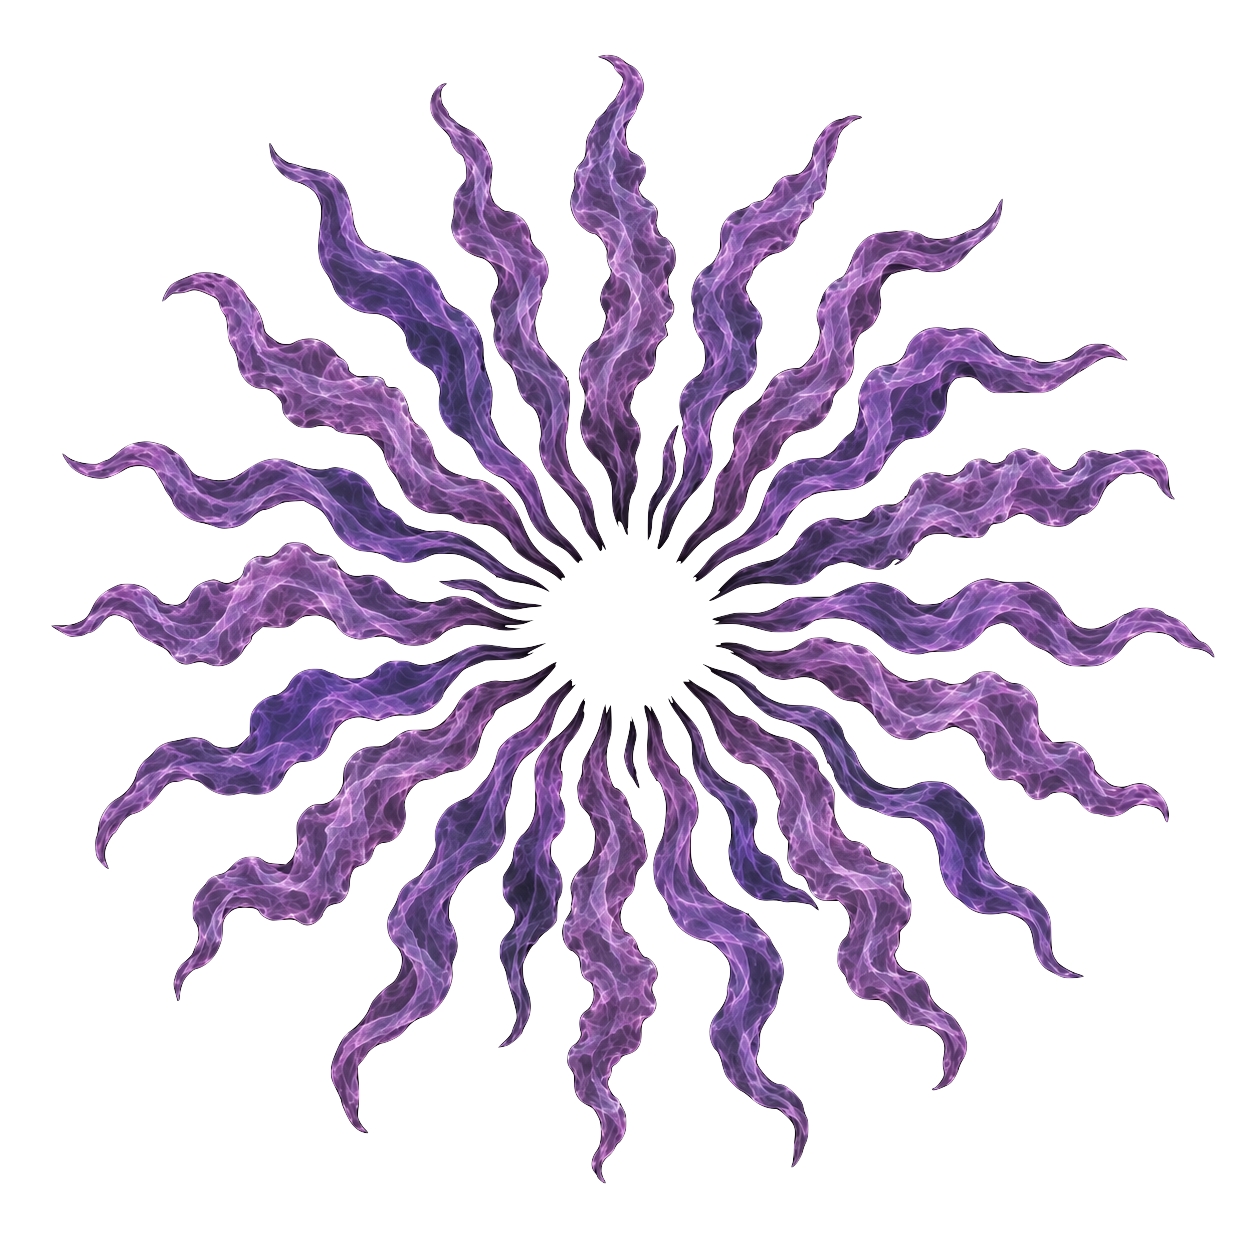
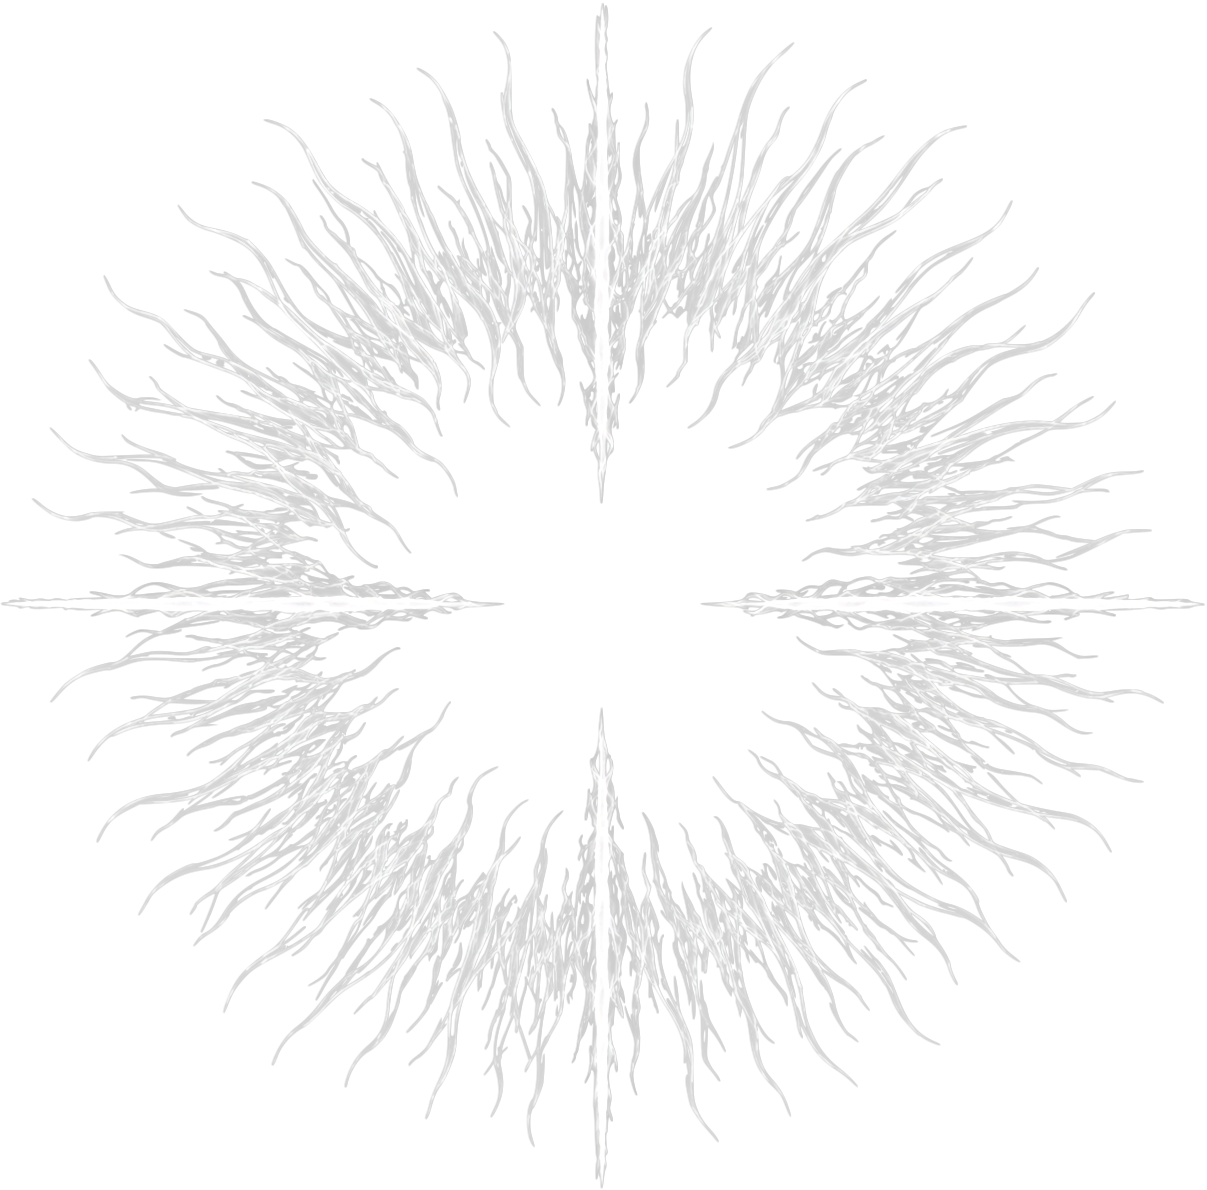
Finalized work with texture and parameters setting

diff --git a/shaders/jellyfishDeform.sksl.ts b/shaders/jellyfishDeform.sksl.ts
@@ -40,6 +40,22 @@
  * Wobble (bell + tentacles, always on):
  *   low-frequency angular distortion driven only by iTime — independent of the
  *   swim cycle. Edge-weighted so the rim flaps while the center stays stable.
+ *
+ * Tilt (directional lean, all along the unit vector tiltDir = (cos,sin) of
+ * tiltAngle). Three independent, sign-explicit channels so the bell and the
+ * tentacles always lean to corresponding sides:
+ *   tiltCenterShift: rim-anchored lean in display space (applied to c before the
+ *     pulse). Inner disc shifts rigidly toward tiltDir while the rim stays put;
+ *     constant across relax and contract so the center stays leaned at rest.
+ *   tiltBodyShift: uniform whole-sprite slide of the sampling center — used by
+ *     the tentacles to trail opposite the motion (pass a negative value).
+ *   tiltLen: radial length asymmetry. dot>0 on the tiltDir side enlarges rSrc
+ *     (samples farther out -> shorter arms); the opposite side lengthens.
+ *   tiltEgg: only applied to the bell. Shrinks the perpendicular-to-tilt
+ *     component on the back half (dot(c,tiltDir) < 0), which expands the
+ *     silhouette boundary there → blunt/flat arc. Front hemisphere is untouched
+ *     → stays a normal rounded dome. Uses tiltDir, so must be 0 for tentacles.
+ * All default to 0, so the sprite is untouched until motion drives them.
  */
 export const JELLYFISH_DEFORM_SKSL = `
 uniform float jellyX;
@@ -66,11 +82,35 @@ uniform float wobbleAmp;
 uniform float wobbleSpeed;
 uniform float wobbleLobes;
 uniform float opacity;
+uniform float tiltAngle;
+uniform float tiltCenterShift;
+uniform float tiltBodyShift;
+uniform float tiltLen;
+uniform float tiltEgg;
 uniform shader jellyTexture;
 
 half4 main(float2 fragCoord) {
   vec2 uv = (fragCoord - vec2(jellyX, jellyY)) / vec2(jellyW, jellyH);
+
+  // Tilt direction — computed once; used by egg warp below and shift effects further down.
+  vec2 tiltDir  = vec2(cos(tiltAngle), sin(tiltAngle));
+  vec2 tiltPerp = vec2(-tiltDir.y, tiltDir.x);
+
   vec2 c = uv - 0.5;
+
+  // Egg silhouette warp (bell only, tiltEgg = 0 for tentacles).
+  // In backward mapping, shrinking the perpendicular component of c on the
+  // back half makes the discard boundary (r = 0.5) expand in display space
+  // on that side → wider blunt arc. Front stays a normal circular dome.
+  float axisSigned = dot(c, tiltDir);
+  float backness   = smoothstep(0.0, 0.5, max(0.0, -axisSigned));
+  float perpComp   = dot(c, tiltPerp) / (1.0 + tiltEgg * backness);
+  c = tiltDir * axisSigned + tiltPerp * perpComp;
+
+  // Bell center lean in display space — constant across the swim cycle.
+  float centerHold = 1.0 - smoothstep(0.32, 0.5, length(c));
+  c -= tiltCenterShift * tiltDir * centerHold;
+
   float r = length(c);
 
   if (r > 0.5) {
@@ -113,7 +153,15 @@ half4 main(float2 fragCoord) {
   rSrc *= 1.0 + wobble;
   thetaSrc += wobbleAmp * 0.5 * sin(theta * wobbleLobes + iTime * wobbleSpeed * 0.9 + phase);
 
+  // Tentacle length asymmetry: shorter on the tiltDir side, longer opposite.
+  float lenAlign = (r > 0.0001) ? dot(c, tiltDir) / r : 0.0;
+  rSrc *= 1.0 + tiltLen * lenAlign * smoothstep(0.0, 0.5, r);
+
   vec2 srcUV = 0.5 + vec2(cos(thetaSrc), sin(thetaSrc)) * rSrc;
+
+  // Uniform whole-sprite slide (tentacles trail opposite the motion).
+  srcUV -= tiltBodyShift * tiltDir;
+
   if (srcUV.x < 0.0 || srcUV.x > 1.0 || srcUV.y < 0.0 || srcUV.y > 1.0) {
     return half4(0.0);
   }
@@ -136,9 +184,9 @@ export const jellyfishDeformUniformDefaults = {
   /** Pivot ring (UV radius) the bell scales about — inside it bulges, outside pulls in. */
   pivotR: 0.12,
   /** Outward rim stretch depth during relax. */
-  relaxAmp: 0.08,
+  relaxAmp: 0.03,
   /** Inward rim pull / center bulge depth during the push. */
-  contractAmp: 0.18,
+  contractAmp: 0.12,
   /** Fraction of the cycle spent on the fast contraction (rest is slow relax). */
   pushDur: 0.4,
   /** Angular swirl amplitude in radians (tentacles only; 0 for bell). */
@@ -148,23 +196,33 @@ export const jellyfishDeformUniformDefaults = {
   /** Speed of the tentacle swirl wave travel. */
   swirlSpeed: 2.2,
   /** Bell pattern gamma on contraction — >1 denser at rim, stretched at center. */
-  densityGamma: 1.6,
+  densityGamma: 1.1,
   /** Tentacle source-radius scale on contraction — pulls arms under the bell. */
   contractShrink: 0.9,
   /** Display scale during relax (<1 = slightly farther/smaller). */
   scaleRelax: 0.8,
   /** Display scale during contraction (>1 = closer/larger). */
-  scaleContract: 1.2,
+  scaleContract: 1.1,
   /** How far the see-through rim band extends inward from the edge (UV units). */
   rimWidth: 0.12,
   /** How transparent the rim becomes at peak contraction (0 = off, 1 = fully clear). */
   rimStrength: 1.0,
   /** Radial wobble amplitude at the rim (always on). */
-  wobbleAmp: 0.06,
+  wobbleAmp: 0.05,
   /** Wobble cycle speed. */
-  wobbleSpeed: 5.3,
+  wobbleSpeed: 4.3,
   /** Angular lobe count — use an integer for seamless wrap. */
   wobbleLobes: 1,
   /** Overall sprite opacity for translucency. */
   opacity: 1.0,
+  /** Tilt/lean direction in radians (0 = +x, increasing toward +y / screen-down). */
+  tiltAngle: 0,
+  /** Display-space center lean toward tiltDir, UV units (bell uses this). */
+  tiltCenterShift: 0,
+  /** Uniform whole-sprite slide toward tiltDir, UV units (tentacles use negative). */
+  tiltBodyShift: 0,
+  /** Radial length asymmetry along the tilt axis, fraction (tentacles use this). */
+  tiltLen: 0,
+  /** Egg silhouette: widens the back half into a blunt arc, front stays round (bell only). */
+  tiltEgg: 0,
 } as const;

diff --git a/components/TableExercise/Undersea/JellyfishInstance.tsx b/components/TableExercise/Undersea/JellyfishInstance.tsx
@@ -50,6 +50,11 @@ type JellyfishLayerProps = {
   wobbleSpeed: number;
   wobbleLobes: number;
   opacity: number;
+  tiltAngle: number;
+  tiltCenterShift: number;
+  tiltBodyShift: number;
+  tiltLen: number;
+  tiltEgg: number;
   clock: SharedValue<number>;
 };
 
@@ -77,6 +82,11 @@ function JellyfishLayer({
   wobbleSpeed,
   wobbleLobes,
   opacity,
+  tiltAngle,
+  tiltCenterShift,
+  tiltBodyShift,
+  tiltLen,
+  tiltEgg,
   clock,
 }: JellyfishLayerProps) {
   const x = centerX - size / 2;
@@ -107,6 +117,11 @@ function JellyfishLayer({
     wobbleSpeed,
     wobbleLobes,
     opacity,
+    tiltAngle,
+    tiltCenterShift,
+    tiltBodyShift,
+    tiltLen,
+    tiltEgg,
   }));
 
   return (
@@ -157,6 +172,16 @@ export type JellyfishInstanceProps = {
   wobbleLobes?: number;
   bellOpacity?: number;
   tentacleOpacity?: number;
+  /** Lean direction in radians (0 = right, increasing toward down). */
+  tiltAngle?: number;
+  /** Lean amplitude in UV units: bell center leans toward tiltAngle, tentacles trail opposite. */
+  tiltAmp?: number;
+  /** Tentacle body slide as a multiple of tiltAmp (opposite direction). */
+  tentacleTiltShiftRatio?: number;
+  /** Tentacle length asymmetry as a multiple of tiltAmp. */
+  tentacleTiltLenRatio?: number;
+  /** Egg silhouette warp on the bell: 0 = circle, ~0.4 = blunt back arc, rounded front dome. */
+  bellTiltEgg?: number;
   clock: SharedValue<number>;
 };
 
@@ -188,9 +213,16 @@ export function JellyfishInstance({
   wobbleLobes = jellyfishDeformUniformDefaults.wobbleLobes,
   bellOpacity = 0.88,
   tentacleOpacity = 0.85,
+  tiltAngle = jellyfishDeformUniformDefaults.tiltAngle,
+  tiltAmp = 0,
+  tentacleTiltShiftRatio = 1,
+  tentacleTiltLenRatio = 3,
+  bellTiltEgg = 0,
   clock,
 }: JellyfishInstanceProps) {
   const tentacleSize = bellSize * tentacleSizeRatio;
+  const tentacleBodyShift = -tiltAmp * tentacleTiltShiftRatio;
+  const tentacleLen = tiltAmp * tentacleTiltLenRatio;
 
   return (
     <>
@@ -218,6 +250,11 @@ export function JellyfishInstance({
         wobbleSpeed={wobbleSpeed}
         wobbleLobes={wobbleLobes}
         opacity={tentacleOpacity}
+        tiltAngle={tiltAngle}
+        tiltCenterShift={0}
+        tiltBodyShift={tentacleBodyShift}
+        tiltLen={tentacleLen}
+        tiltEgg={0}
         clock={clock}
       />
       <JellyfishLayer
@@ -244,6 +281,11 @@ export function JellyfishInstance({
         wobbleSpeed={wobbleSpeed}
         wobbleLobes={wobbleLobes}
         opacity={bellOpacity}
+        tiltAngle={tiltAngle}
+        tiltCenterShift={tiltAmp}
+        tiltBodyShift={0}
+        tiltLen={0}
+        tiltEgg={bellTiltEgg}
         clock={clock}
       />
     </>

diff --git a/components/TableExercise/Undersea/UnderseaBackground.tsx b/components/TableExercise/Undersea/UnderseaBackground.tsx
@@ -87,13 +87,19 @@ const JELLYFISH_CONFIGS = [
     bellSize: 188,
     phase: 0.0,
     pulseSpeed: 2.5,
+    tiltAngle: -3.14,
+    tiltAmp: 0.05,
+    bellTiltEgg: 0.08,
   },
   {
     xRatio: 0.7,
     yRatio: 0.6,
     bellSize: 150,
     phase: 2.1,
-    pulseSpeed: 1.9,
+    pulseSpeed: 3.9,
+    tiltAngle: 0,
+    tiltAmp: 0,
+    bellTiltEgg: 0,
   },
 ] as const;
 
@@ -466,6 +472,9 @@ export function UnderseaBackground() {
               bellSize={config.bellSize}
               phase={config.phase}
               pulseSpeed={config.pulseSpeed}
+              tiltAngle={config.tiltAngle}
+              tiltAmp={config.tiltAmp}
+              bellTiltEgg={config.bellTiltEgg}
               clock={clock}
             />
           ))}